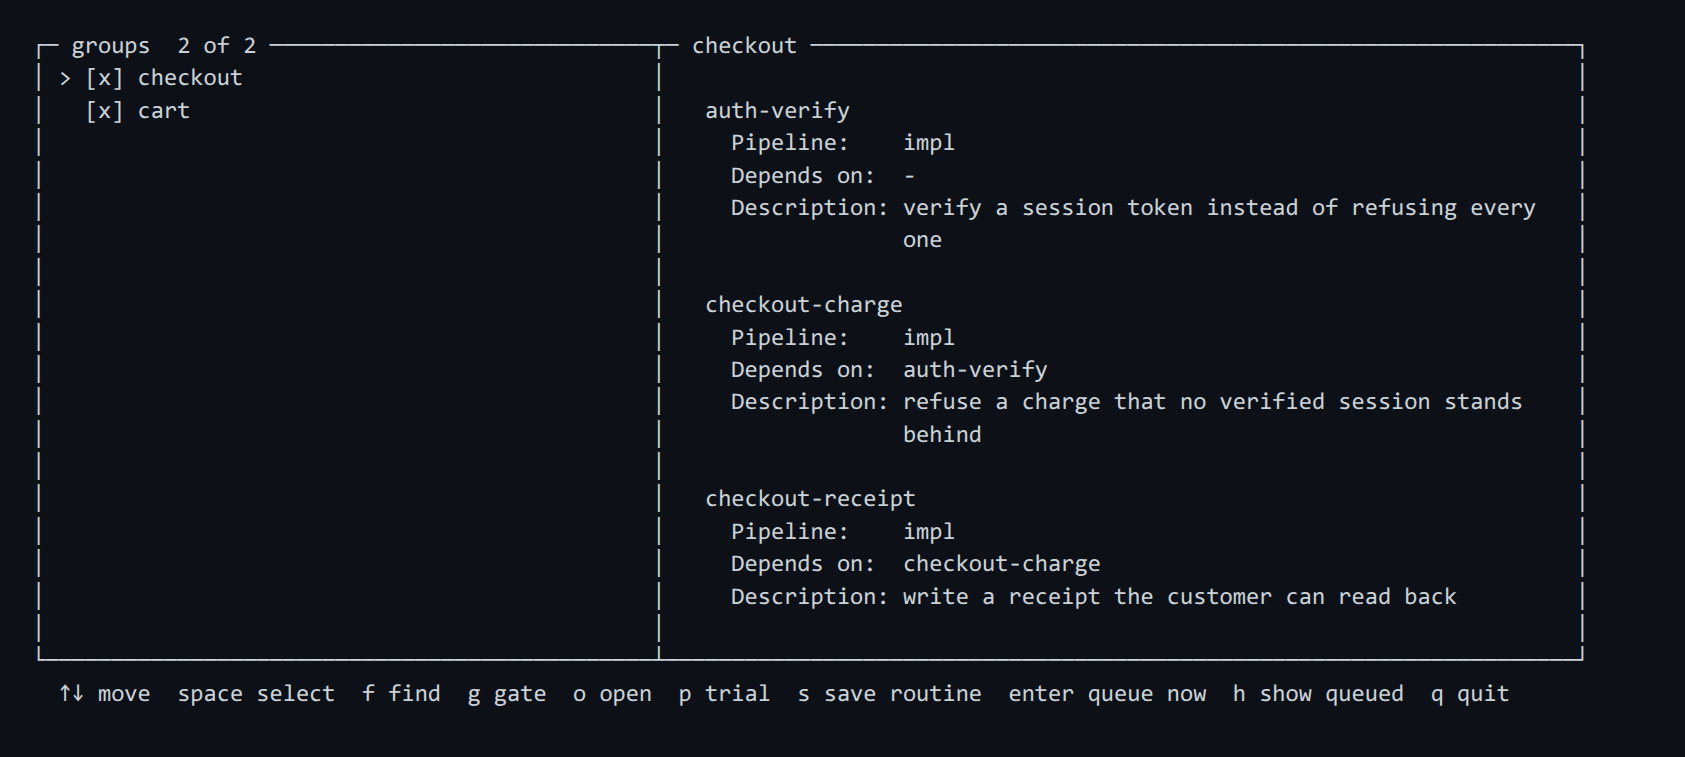
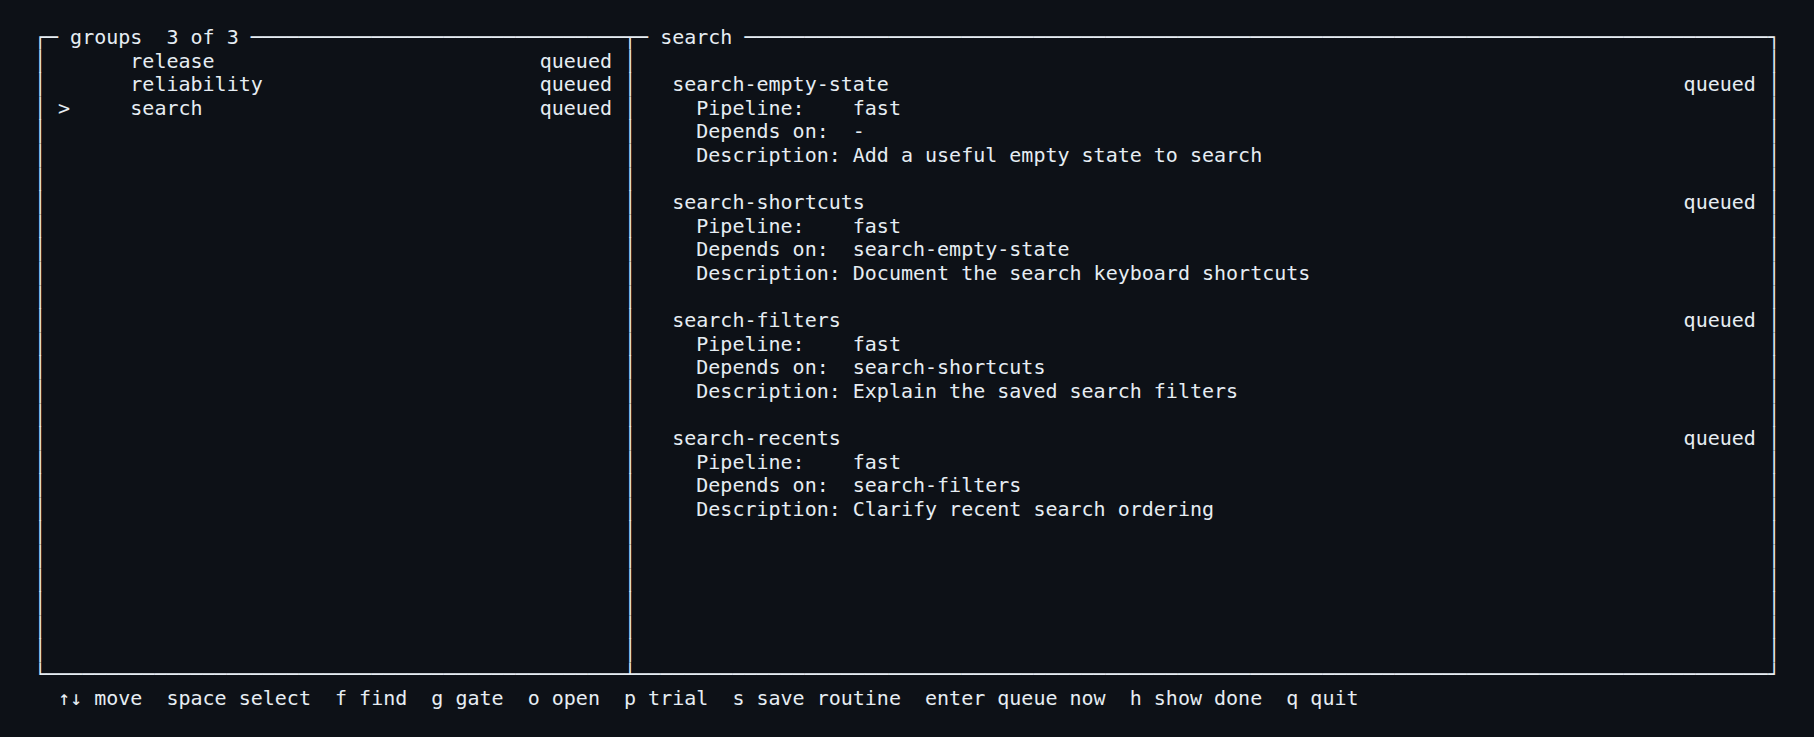
docs(readme): refresh dispatcher examples

diff --git a/assets/prompts/archivist/PROMPT.md b/assets/prompts/archivist/PROMPT.md
@@ -18,11 +18,16 @@ works today. Write as if the code had always been this way.
 4. **Place paths no document covers.** Widen an existing document's `covers` and describe it
    there. Write a new document only when a reader would look for the subject under its own
    heading, not merely because the code is new.
-5. **Keep the front page true.** A document added, removed or renamed makes it wrong.
-6. **Correct the repository's own front pages.** `README.md` and `DOCS.md` at the root are
-   yours too, and no other step may touch them. Nothing routes to them, so read them and look
-   for what your change made untrue — a command, a flag, a default, a link to a document you
-   renamed. Correct the sentence, not the page: each is already the length somebody wanted.
+5. **Keep `docs/README.md` true.** Read it even when no document moved. A document added,
+   removed or renamed changes its index; a new top-level capability may change its route for a
+   newcomer. Correct the smallest line that makes the page useful again.
+6. **Audit the repository's public front pages.** `README.md` and `DOCS.md` at the root are
+   yours too, and no other step may touch them. Nothing routes to them, so read both on every
+   task. Make a short list from the diff of every user-facing capability, command, state, flag,
+   default, provider and config key it added, removed or renamed; search the front pages for the
+   old and current terms. Check their examples, captions and screenshots against the current
+   interface. Add only what somebody needs to get started or choose a feature, remove obsolete
+   migration notes, and correct the sentence rather than expanding the page.
 7. **Read back what you wrote**, against the skeleton and against the code:
    - Does it carry the skeleton's headings, in the skeleton's order?
    - Is every sentence true of the code as it stands right now?

diff --git a/README.md b/README.md
@@ -46,6 +46,8 @@ sometimes does. spoolway won't surprise you with a bill or an opinion.
 - **Trials.** Fork one task into an arm per pipeline and queue them together, then read the
   arms side by side in eval.
 - **Routines.** Keep the tasks you run over and over in `.spoolway/routines/`.
+- **Scheduled jobs.** Run a routine on a cron schedule; the dispatcher stays up for the next
+  one even when the queue is empty.
 - **Eval built in.** Every lane's spend and outcome land in a ledger, so you can see what
   your last pipeline edit did to pass rate and price.
 
@@ -122,7 +124,8 @@ spoolway dispatch      # watch the board, and step in only where you are needed
 
 *One row per task, grouped by `group:`. The board says what each lane is spending as it
 spends it, what every queued task is waiting on, and which tasks are paused for you. NEXT
-distinguishes a lane holding a question from a task waiting to be resumed past a gate.*
+distinguishes a lane holding a question from a task waiting to be resumed past a gate. It
+also shows the next scheduled job.*
 
 Every task on the board is in one of a few states:
 
@@ -135,9 +138,10 @@ Every task on the board is in one of a few states:
 | `unreachable` | A task it depends on is blocked, so it cannot start until you clear that one. |
 | `done` | Finished: the branch is handed over, the worktree removed, the task archived. |
 
-For JSON consumers, question-held rows now report `"state": "paused"` instead of
-`"state": "waiting_on_you"`. Use `next` to distinguish ``look at pane `<lane>``` from a
-gate's resume instruction.
+Run `spoolway jobs` to schedule any routine in `.spoolway/routines/`; the dispatcher fires it
+when its five-field cron expression comes round. See **[Jobs](docs/jobs.md)**.
+
+<img src="docs/screenshots/jobs.png" alt="the dispatcher waiting for two scheduled jobs">
 
 ### 5. Calibrate
 

diff --git a/docs/documentation.md b/docs/documentation.md
@@ -36,7 +36,9 @@ Both shipped pipelines give every task a `document` step. Its lane runs the arch
 prompt, and the prompt is what resolves the task's `touches` against every document's
 `covers` — by reading `docs/` itself, not from anything spoolway hands it. The repository's own
 front pages, `README.md` and `DOCS.md`, are that prompt's too, and no other step may touch
-them. See `assets/prompts/archivist/PROMPT.md`.
+them. It reads both on every task and checks the diff's user-facing names against their
+examples, captions and screenshots, because neither page has a `covers` header to route a
+change there. See `assets/prompts/archivist/PROMPT.md`.
 
 The scope is one task's diff, not a plan's. That is what puts the documentation in the same
 pull request as the behaviour it describes, rather than in a separate change at the end.
